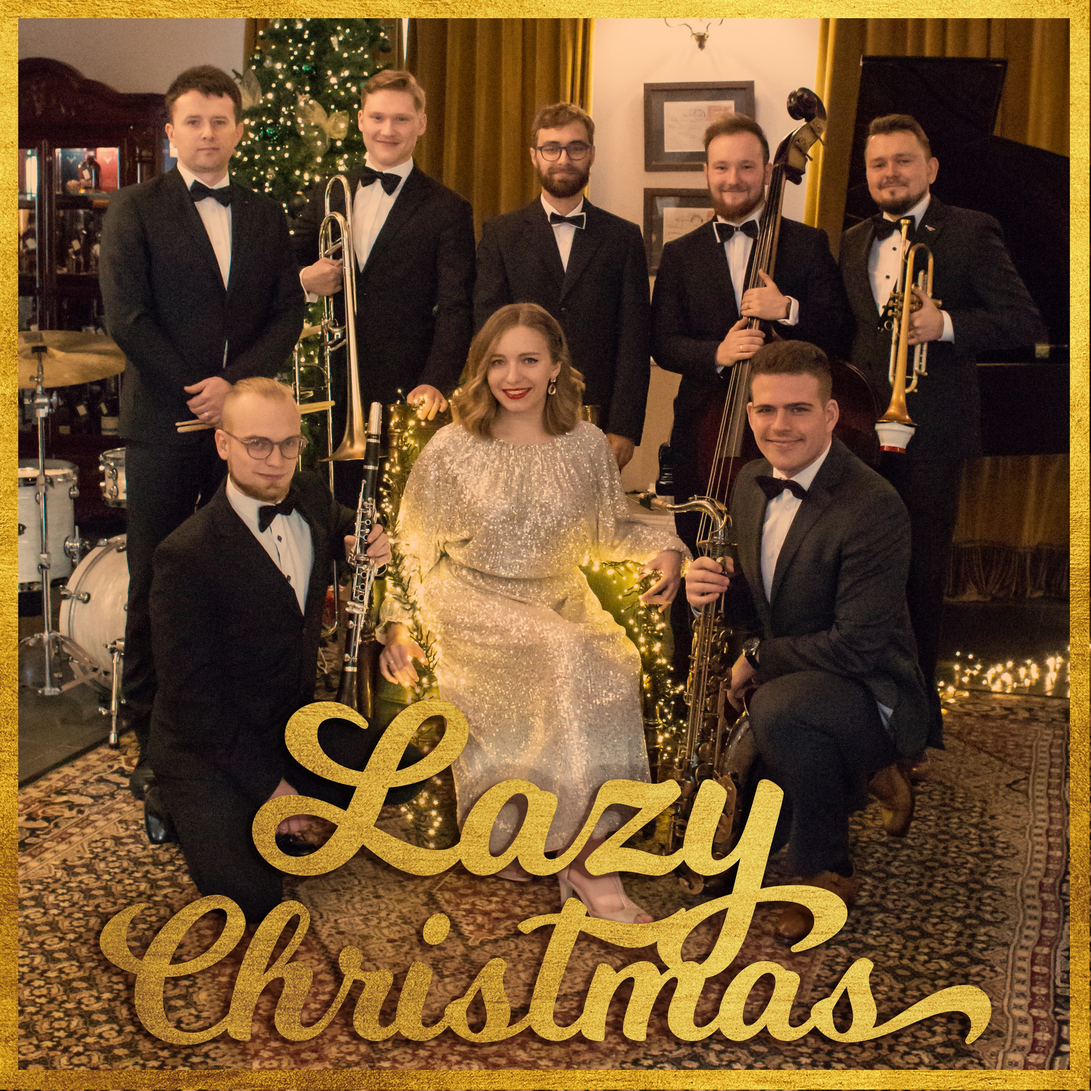
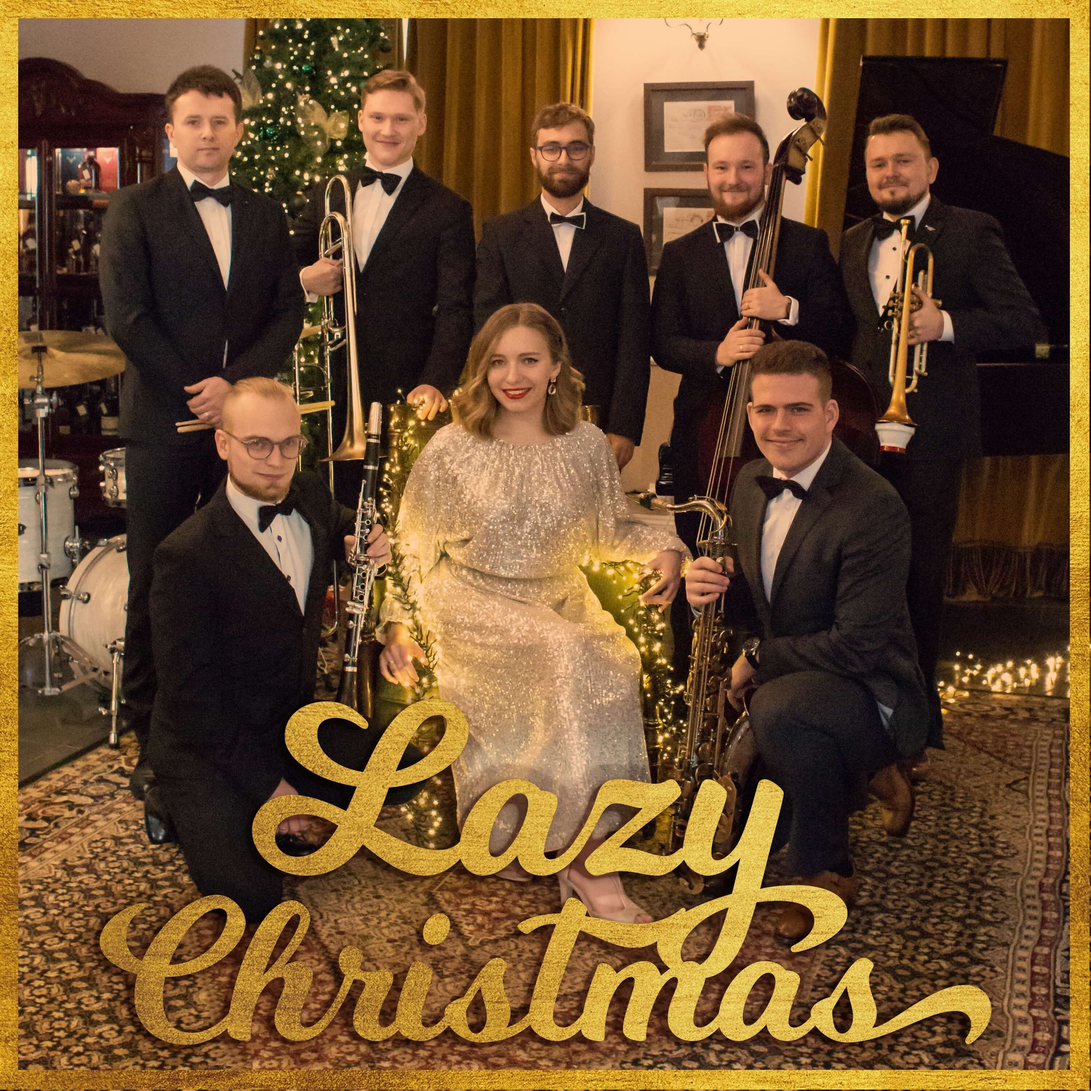
optimize images

diff --git a/src/ui/pages/YouTubeView/YouTubeView.tsx b/src/ui/pages/YouTubeView/YouTubeView.tsx
@@ -19,6 +19,7 @@ export const YouTubeIFramesWrapper = styled('div')`
 export const YouTubeIFrame = styled('iframe')`
     border-radius: 40px;
     border: 20px solid rgba(255,255,255,0.1);
+    margin-bottom: 30px;
     ${mq[1]} {
     width: 100%;
   }
